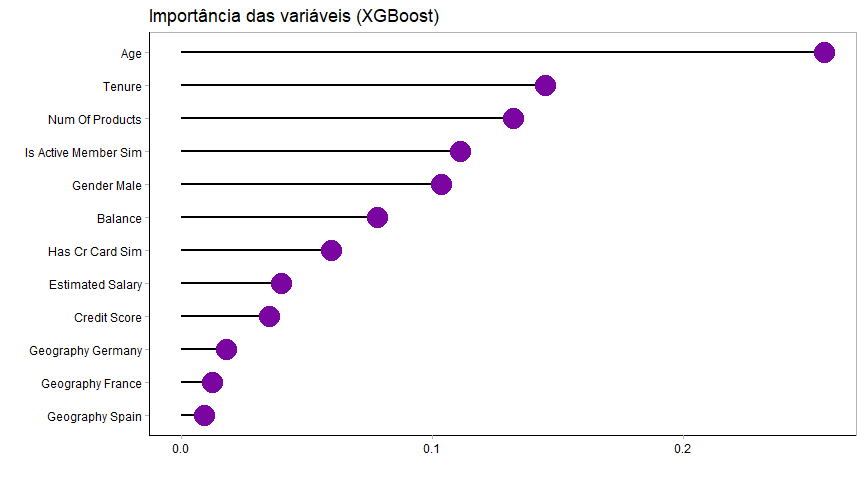
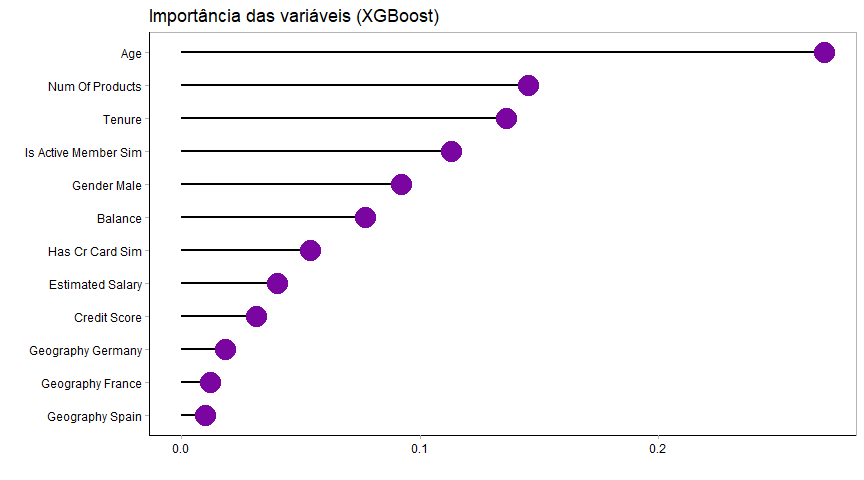
24/01

diff --git a/Churn.md b/Churn.md
@@ -24,11 +24,11 @@ Rodrigo F. Pizzinato
 
 ## O que é churn?
 
-No mundo atual é imprescidível que as empresas conheçam e tenha um bom
-relacionamento com seus clientes. Para entender como se dá essa relação
-com os clientes, o índice de churn é uma métrica muito utilizada, pois é
-nela que se calcula a taxa de desistência de clientes num determinado
-período.
+No mundo empresarial atual é imprescidível que as empresas conheçam e
+tenha um bom relacionamento com seus clientes. Para entender como se dá
+essa relação com os clientes, o índice de churn (ou rotatividade) é uma
+métrica muito utilizada, pois é nela que se calcula a taxa de
+desistência de clientes num determinado período.
 
 Essa desistência pode acontecer por diversos motivos, como insatisfação
 dos clientes com qualidade do produto, mau atendimento, ou até por
@@ -441,16 +441,16 @@ churn_rec %>%
     ## # A tibble: 12,740 x 13
     ##    credit_score    age  tenure balance num_of_~1 estim~2 geogr~3 geogr~4 geogr~5
     ##           <dbl>  <dbl>   <dbl>   <dbl>     <dbl>   <dbl>   <dbl>   <dbl>   <dbl>
-    ##  1       0.547   0.137 -1.52    -1.33      0.884  0.238        1       0       0
-    ##  2       1.82    0.516 -0.868    0.767    -0.950  0.0652       0       0       1
-    ##  3       1.60    1.10   0.720   -1.33      0.884 -2.02         1       0       0
-    ##  4      -1.62    0.605 -0.0411   0.790     0.884  0.0109       1       0       0
-    ##  5       0.406  -1.28  -0.868    0.780    -0.950 -0.0334       1       0       0
-    ##  6      -1.28   -0.750  0.504    0.730     0.884  0.0791       1       0       0
-    ##  7      -1.68   -1.73  -0.402   -1.33      0.884  0.0302       0       0       1
-    ##  8      -1.96   -0.394  1.24    -1.33      0.884 -1.05         1       0       0
-    ##  9      -0.0786 -0.282  0.720   -1.33      0.884 -0.118        0       0       1
-    ## 10      -0.277   0.693 -0.402    0.791     0.884 -0.143        0       1       0
+    ##  1      -0.373   0.328 -1.55     0.696    -0.945  0.414        0       0       1
+    ##  2       0.543   0.134 -1.55    -1.32      0.884  0.234        1       0       0
+    ##  3       1.83    0.512 -0.885    0.768    -0.945  0.0653       0       0       1
+    ##  4       1.61    1.10   0.716   -1.32      0.884 -1.97         1       0       0
+    ##  5      -1.64    0.602 -0.0516   0.790     0.884  0.0121       1       0       0
+    ##  6       0.400  -1.28  -0.885    0.781    -0.945 -0.0312       1       0       0
+    ##  7      -1.30   -0.753  0.498    0.731     0.884  0.0789       1       0       0
+    ##  8      -1.70   -1.73  -0.416   -1.32      0.884  0.0311       0       0       1
+    ##  9      -1.04   -1.58   0.246   -1.32      0.884  0.936        1       0       0
+    ## 10      -0.0875 -0.285  0.716   -1.32      0.884 -0.114        0       0       1
     ## # ... with 12,730 more rows, 4 more variables: gender_Male <dbl>,
     ## #   has_cr_card_Sim <dbl>, is_active_member_Sim <dbl>, exited <fct>, and
     ## #   abbreviated variable names 1: num_of_products, 2: estimated_salary,
@@ -767,7 +767,7 @@ Valor
 Accuracy
 </td>
 <td style="text-align:right;">
-0.845
+0.852
 </td>
 </tr>
 <tr>
@@ -775,7 +775,7 @@ Accuracy
 F1-Score
 </td>
 <td style="text-align:right;">
-0.610
+0.621
 </td>
 </tr>
 <tr>
@@ -791,7 +791,7 @@ Recall
 Precision
 </td>
 <td style="text-align:right;">
-0.625
+0.648
 </td>
 </tr>
 </tbody>

diff --git a/README.md b/README.md
@@ -33,14 +33,6 @@ Dados utilizados:
 -   EstimatedSalary: salário estimado do cliente;
 -   Exited: se o cliente deixou de ser cliente do banco ou não;
 
-## Tecnologias
-
--   RStudio
--   Tidyverse (ggplot2, dplyr, tidyr, forcats…)
--   Tidymodels (parsnip, tune, workflow…)
--   Vip
--   Themis
-
 ## Modelos
 
 -   O preprocessamento das variáveis envolveram os seguintes métodos:
@@ -61,10 +53,11 @@ Dados utilizados:
 
 ## Conclusão
 
--   É possível chegar em resultados melhores talvez pelo uso de
-    diferentes método de feature engineering, ou de algoritmos de deep
-    learning, porém as variáveis mais importantes para o modelo
-    dificilmente serão diferente das encontradas aqui.
+As variáveis idade, tenure (que indica quanto tempo o cliente está com a
+empresa) e número de produtos são as mais importantes para prever o
+churn, segundo o modelo. Enquanto isso, aspectos geográficos do cliente
+ou o score de crédito não apresentam grande poder preditivo, o que
+indica um bom caminho que a empresa pode seguir para tratar o problema.
 
 ![variable importance
 plot](Churn_files/figure-gfm/unnamed-chunk-22-1.png)
